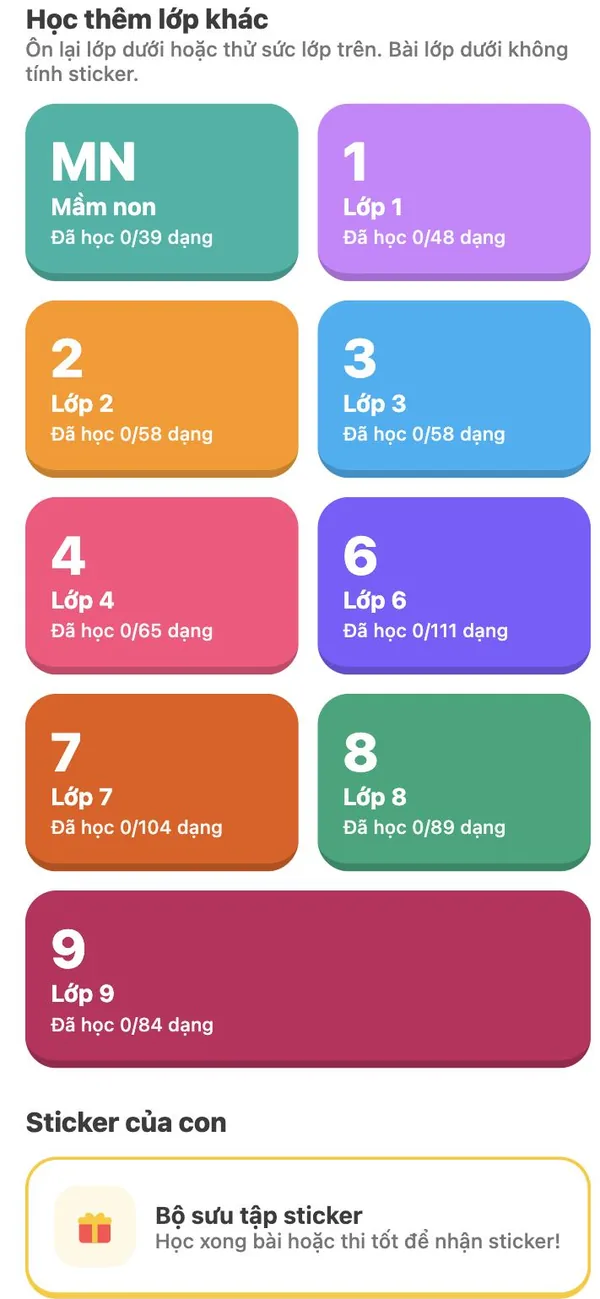
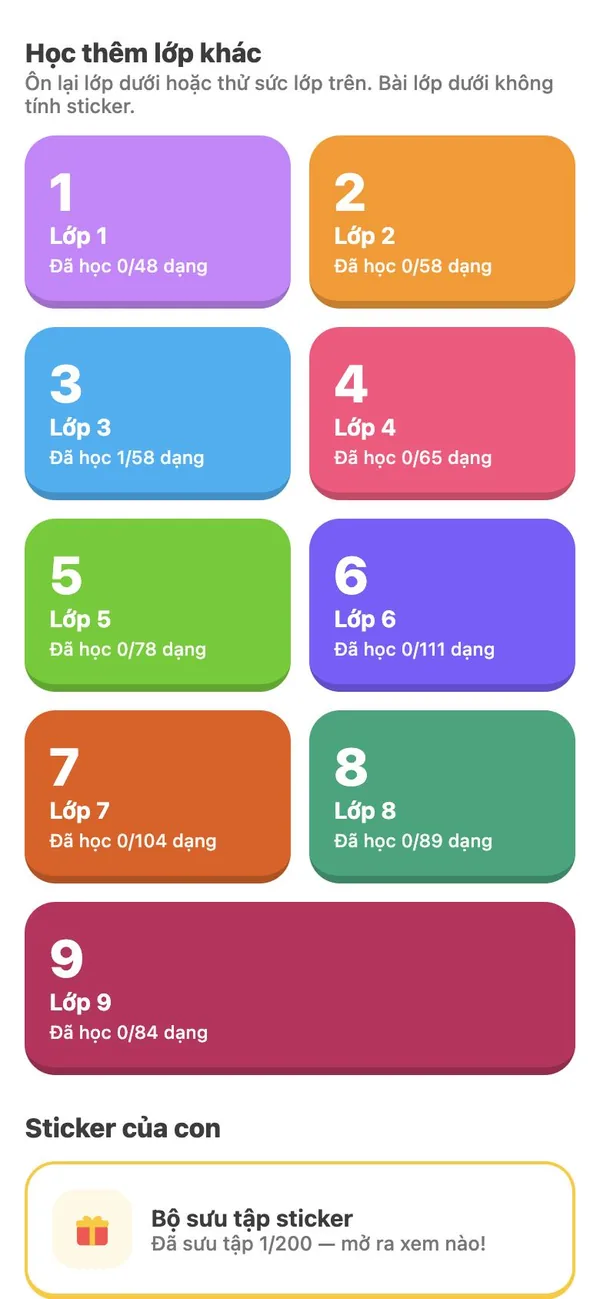
site: sync docs from cupimath@4eb57b5

diff --git a/index.html b/index.html
@@ -218,7 +218,7 @@
 
     <div class="hero-visual" aria-label="Ảnh chụp màn hình app Cú Pi Math">
       <figure class="phone phone-back">
-        <img src="img/grades.webp" alt="Ô chọn lớp trong app: Mầm non, lớp 1 đến lớp 9, mỗi lớp ghi số dạng toán đã học" width="600" height="1299" fetchpriority="high">
+        <img src="img/grades.webp" alt="Ô chọn lớp trong app: lớp 1 đến lớp 9, mỗi lớp ghi số dạng toán đã học" width="600" height="1299" fetchpriority="high">
       </figure>
       <figure class="phone phone-front">
         <img src="img/result.webp" alt="Kết quả thi thử Kangaroo: 22 trên 24 câu đúng, 111,25 trên 120 điểm, mức High Distinction ước tính" width="600" height="1299" fetchpriority="high">
